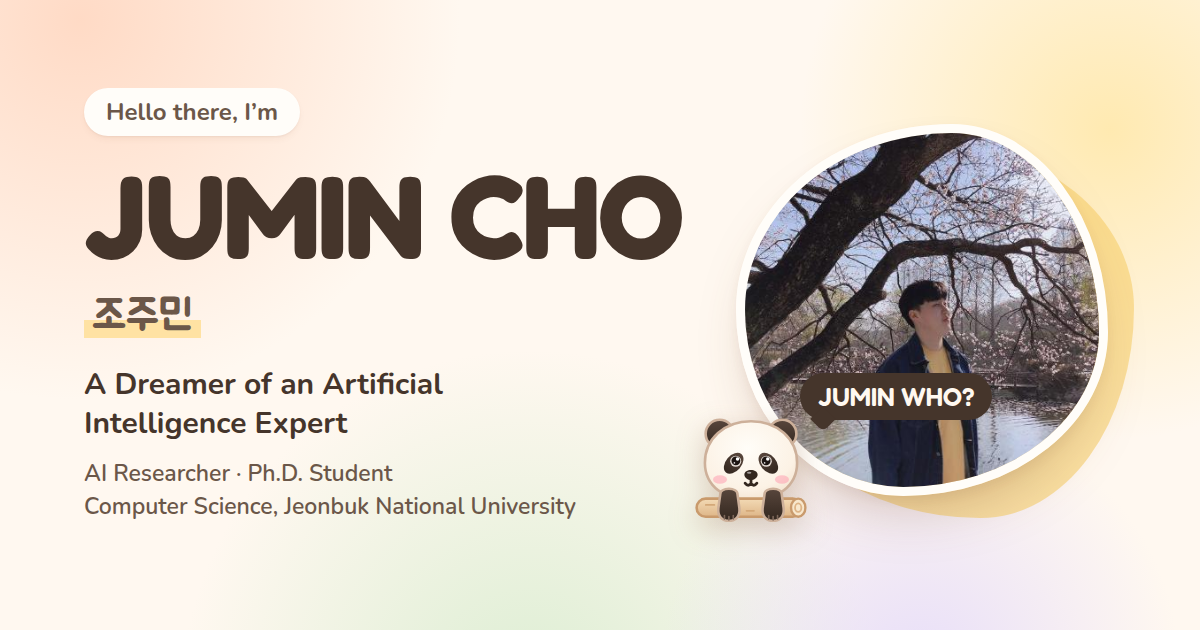
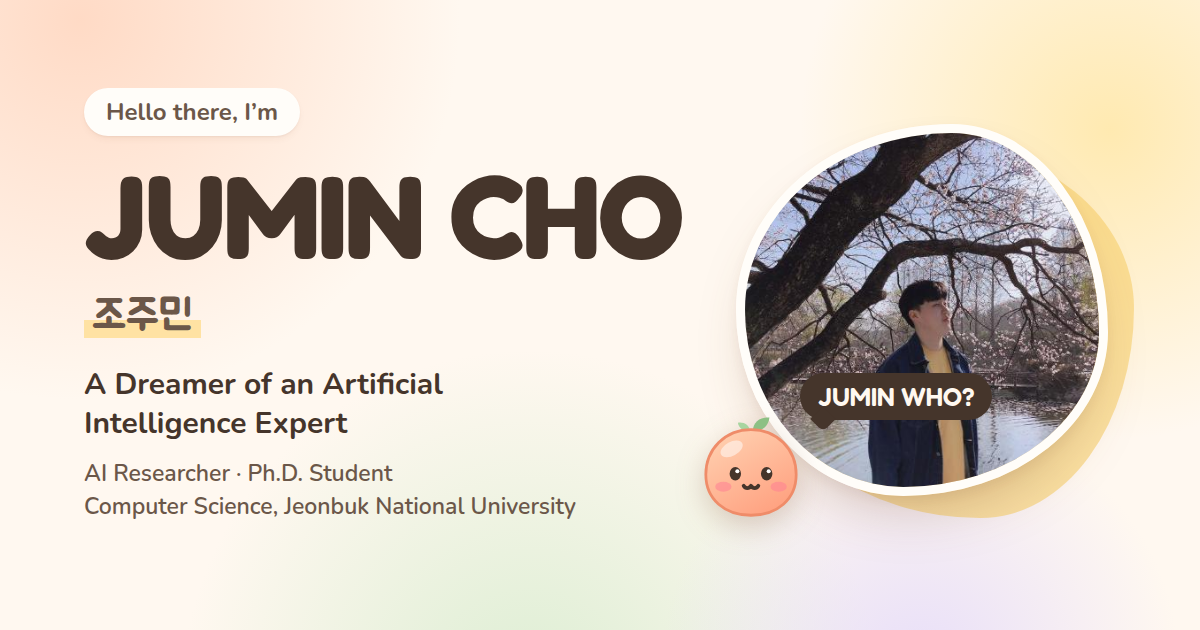
Bring back the peach mochi Mongle
Reverts 2ee805a (the panda cub mascot): favicon.svg, the icons, the link
preview, the README previews and the mascot wording in the READMEs,
DESIGN.md and CLAUDE.md are back to the peach mochi with a sprout. npm
run icons reproduces the restored icons byte for byte.

Claude-Session: https://claude.ai/code/session_0127hMf9jfyXDPBsDP4fe3Lg

Changed region(s): [[0.555, 0.6635, 0.6783, 0.8444]]

diff --git a/CLAUDE.md b/CLAUDE.md
@@ -5,7 +5,7 @@
 - 콘텐츠(사실 정보와 화면 문구)는 전부 `src/data/profile.ts`에만 있습니다. JSX에 사실 정보를 직접 쓰지 마세요.
 - 사이트와 GitHub 프로필은 다섯 언어(English 기본, 简体中文, 繁體中文, 日本語, 한국어)입니다. 문구는 `Localized`(`{ en, 'zh-CN', 'zh-HK', ja, ko }`)로 다섯 언어를 모두 채웁니다. 논문 제목·저자·학회명, 연구실, LinkedIn, GitHub 같은 고유 명사는 번역하지 않습니다. 언어는 `?lang=` → `localStorage`의 `juminwho:lang` → 영어 순서로 정하며, 이 키와 매개변수는 `src/lib/i18n.ts`와 `index.html`의 인라인 스크립트가 함께 씁니다. 저장소 README도 `README.md`(영어)와 `README.<code>.md` 네 개가 있으니, 내용을 바꾸면 다섯 개를 함께 고칩니다.
 - 디자인 규칙은 `docs/DESIGN.md`, 토큰은 `src/styles/tokens.css`를 따릅니다. 몽글몽글·코지: 크림/코코아 색, 파스텔 톤, 둥근 쿠션 패널, 느리고 작은 모션(모션 줄이기 존중).
-- 유지해야 하는 아이덴티티 요소: 이름 호버(또는 스크롤) 시 "JUMIN WHO?" 전환, 1998-07-10 기준 실시간 나이 카운터, 마스코트 몽글이(통나무에 앞발을 걸친 아기 판다, `public/favicon.svg`), Jumin 시계.
+- 유지해야 하는 아이덴티티 요소: 이름 호버(또는 스크롤) 시 "JUMIN WHO?" 전환, 1998-07-10 기준 실시간 나이 카운터, 마스코트 몽글이(`public/favicon.svg`), Jumin 시계.
 - Jumin 시계(`src/sections/JuminTime.tsx`): Local | Jumin 스위치로 방문자 시간과 Jumin 시간(KST)을 보여 주고, KST 일과표(`profile.ts`의 `juminTime.routine`)로 상태를 정합니다. 모든 상태 앞에는 반드시 "maybe…"(다른 언어에서는 `juminTime.maybe`의 같은 뜻의 말)를 붙입니다. 일과표 자체와 "until …" 같은 다음 상태 시각은 화면에 보여 주지 않고, 장소 줄·하루 리본·시차 줄도 두지 않습니다(자리를 줄이기 위해 뺌). 일과표를 바꾸면 `scripts/snapshots.mjs`의 `routineCases`도 맞춥니다.
 - 변경 후 `npm run lint`와 `npm run build`가 통과해야 하며, `npm run snapshots`로 375px/1280px, 라이트/다크, 모든 언어에서 확인합니다.
 - 마스코트·팔레트·이름·소개를 바꾸면 `npm run icons`로 아이콘과 OG 이미지를 다시 만듭니다.

diff --git a/README.ja.md b/README.ja.md
@@ -14,7 +14,7 @@
 
 <picture>
   <source media="(prefers-color-scheme: dark)" srcset="docs/preview-dark.jpg" />
-  <img src="docs/preview-light.jpg" alt="最初の画面：クリーム色の背景に名前とプロフィールカード、その横に桜の下で撮った写真とパンダのマスコット" />
+  <img src="docs/preview-light.jpg" alt="最初の画面：クリーム色の背景に名前とプロフィールカード、その横に桜の下で撮った写真と桃のマスコット" />
 </picture>
 
 ## 特徴
@@ -24,7 +24,7 @@
 - 1998-07-10 から小数点以下 8 桁までリアルタイムで数える年齢カウンター。
 - ジュミンは今、何時？ 「ローカル | ジュミン」の切り替えスイッチが付いた時計カードが、ジュミンの時間（KST）か訪問者の時間を表示し、画面には出さない平日・週末の日課表から、ジュミンが今たぶん何をしているかを教えてくれます。たぶん… 仕事中、出勤準備中、おやすみ中、または観測されるまであらゆる状態が重なり合った、量子の重ね合わせ中。
 - 5 つの言語：English（既定）、简体中文、繁體中文、日本語、한국어。ヘッダーのメニューで選ぶと選択を覚えておき、`?lang=ja` のようなリンクでその言語のページを直接開けます。
-- 丸太に前足をかけた、もふもふの子パンダのマスコット、Mongle。ファビコン、アプリアイコン、リンクプレビュー（Open Graph）画像はすべてこの絵から作られます。
+- 桃のお餅のマスコット、Mongle。ファビコン、アプリアイコン、リンクプレビュー（Open Graph）画像はすべてこの絵から作られます。
 - 地名の前の丸い国旗ステッカー：ジュミンが拠点にしている場所と、各論文を発表した場所。
 - OS の設定に従い、自分で選ぶとそれを覚えるテーマ切り替え、メールアドレスのコピーボタン、印刷用スタイル。
 - モーション軽減の設定、スクリーンリーダー、キーボード操作に配慮し、すべての文字が WCAG AA 以上のコントラストを持ちます。

diff --git a/README.zh-HK.md b/README.zh-HK.md
@@ -14,7 +14,7 @@
 
 <picture>
   <source media="(prefers-color-scheme: dark)" srcset="docs/preview-dark.jpg" />
-  <img src="docs/preview-light.jpg" alt="網站第一個畫面：奶油色背景上的名字和資料卡，旁邊是在櫻花樹下拍的相片和熊貓吉祥物" />
+  <img src="docs/preview-light.jpg" alt="網站第一個畫面：奶油色背景上的名字和資料卡，旁邊是在櫻花樹下拍的相片和桃子吉祥物" />
 </picture>
 
 ## 特色
@@ -24,7 +24,7 @@
 - 由 1998-07-10 起即時計算、準確至小數點後 8 位的年齡計數器。
 - Jumin 那邊現在幾點？附有「本地 | Jumin」開關的時鐘卡會顯示 Jumin 的時間（KST）或訪客的時間，並根據不會在頁面上顯示的平日與週末作息表，告訴你 Jumin 現在也許在做甚麼：也許……在工作、在準備上班、在睡覺，或者處於量子疊加態——在被觀測之前，所有狀態同時存在。
 - 五種語言：English（預設）、简体中文、繁體中文、日本語和한국어，可在頁首的選單中選擇。選擇會被記住，`?lang=zh-HK` 這樣的連結可以直接以該語言開啟頁面。
-- 把前爪搭在圓木上的毛茸茸熊貓寶寶吉祥物 Mongle。網站圖示（favicon）、應用程式圖示和連結預覽（Open Graph）圖片都出自這幅畫。
+- 桃子麻糬吉祥物 Mongle。網站圖示（favicon）、應用程式圖示和連結預覽（Open Graph）圖片都出自這幅畫。
 - 地名前的圓形國旗貼紙：Jumin 所在的地方，以及每篇論文發表的地方。
 - 跟隨操作系統設定、手動選擇後會記住的主題切換，複製電郵按鈕，以及打印樣式。
 - 尊重「減少動態效果」設定、屏幕閱讀器和鍵盤導航，所有文字的對比度都達到 WCAG AA 或以上。

diff --git a/README.zh-CN.md b/README.zh-CN.md
@@ -14,7 +14,7 @@
 
 <picture>
   <source media="(prefers-color-scheme: dark)" srcset="docs/preview-dark.jpg" />
-  <img src="docs/preview-light.jpg" alt="首屏：奶油色背景上的名字和信息卡片，旁边是在樱花树下拍的照片和熊猫吉祥物" />
+  <img src="docs/preview-light.jpg" alt="首屏：奶油色背景上的名字和信息卡片，旁边是在樱花树下拍的照片和桃子吉祥物" />
 </picture>
 
 ## 特点
@@ -24,7 +24,7 @@
 - 从 1998-07-10 起实时计算、精确到小数点后 8 位的年龄计数器。
 - Jumin 那边现在几点？带有“本地 | Jumin”开关的时钟卡片会显示 Jumin 的时间（KST）或访客的时间，并根据不在页面上显示的工作日与周末作息表，告诉你 Jumin 现在也许在做什么：也许……在工作、在准备上班、在睡觉，或者处于量子叠加态——在被观测之前，所有状态同时存在。
 - 五种语言：English（默认）、简体中文、繁體中文、日本語和한국어，可在页头的菜单中选择。选择会被记住，`?lang=zh-CN` 这样的链接可以直接用该语言打开页面。
-- 把前爪搭在圆木上的毛茸茸熊猫宝宝吉祥物 Mongle。网站图标（favicon）、应用图标和链接预览（Open Graph）图片都出自这幅画。
+- 桃子麻糬吉祥物 Mongle。网站图标（favicon）、应用图标和链接预览（Open Graph）图片都出自这幅画。
 - 地名前的圆形国旗贴纸：Jumin 所在的地方，以及每篇论文发表的地方。
 - 跟随操作系统设置、手动选择后会记住的主题切换，复制邮箱按钮，以及打印样式。
 - 尊重“减弱动态效果”设置、屏幕阅读器和键盘导航，所有文字的对比度都达到 WCAG AA 或更高。

diff --git a/README.ko.md b/README.ko.md
@@ -14,7 +14,7 @@
 
 <picture>
   <source media="(prefers-color-scheme: dark)" srcset="docs/preview-dark.jpg" />
-  <img src="docs/preview-light.jpg" alt="첫 화면: 크림색 배경 위의 이름과 정보 카드, 그 옆에 벚꽃 아래에서 찍은 사진과 판다 마스코트" />
+  <img src="docs/preview-light.jpg" alt="첫 화면: 크림색 배경 위의 이름과 정보 카드, 그 옆에 벚꽃 아래에서 찍은 사진과 복숭아 마스코트" />
 </picture>
 
 ## 기능
@@ -28,8 +28,8 @@
   중, 출근 준비 중, 자는 중, 또는 관측되기 전까지 모든 상태가 겹쳐 있는 양자 중첩 중.
 - 다섯 가지 언어: English(기본), 简体中文, 繁體中文, 日本語, 한국어. 헤더의 메뉴에서 고르면 그 선택을
   기억하고, `?lang=ko` 같은 링크로 원하는 언어의 페이지를 바로 열 수 있습니다.
-- 통나무에 앞발을 걸친 복슬복슬한 아기 판다 마스코트 몽글이. 파비콘, 앱 아이콘, 링크 미리보기(Open Graph)
-  이미지가 모두 이 그림에서 나옵니다.
+- 복숭아 모찌 마스코트 몽글이. 파비콘, 앱 아이콘, 링크 미리보기(Open Graph) 이미지가 모두 이 그림에서
+  나옵니다.
 - 장소 앞의 동그란 국기 스티커: 주민의 위치와 각 논문을 발표한 곳.
 - 운영체제 설정을 따르다가 직접 고르면 그 값을 기억하는 테마 토글, 이메일 복사 버튼, 인쇄용 스타일.
 - 모션 줄이기, 스크린리더, 키보드 탐색을 존중하고, 모든 글자가 WCAG AA 이상의 대비를 갖습니다.

diff --git a/docs/DESIGN.md b/docs/DESIGN.md
@@ -103,11 +103,8 @@ AI 연구자이자 박사과정생 조주민의 한 페이지 프로필입니다
   않습니다. 스크린리더는 언제나 실제 이름을 읽습니다. 터치에서는 스크롤로만 바뀝니다.
 - **실시간 나이.** 1998-07-10 00:00 KST부터 센 나이를 소수점 8자리로 보여 줍니다. 100ms마다 DOM에 직접 그리고
   React는 다시 렌더링하지 않습니다. 모션 줄이기에서는 1초마다 갱신합니다. 스크린리더에는 만 나이만 알려 줍니다.
-- **마스코트 몽글이.** 통나무에 앞발을 걸친 복슬복슬한 아기 판다입니다. 털은 크림색, 귀와 눈 둘레와 앞발은 짙은
-  코코아색(순수한 검정이 아님)이고, 볼에는 파스텔 분홍 볼터치가 있습니다. 모든 윤곽에 라테색 테두리를 둘러서
-  어두운 배경에서도 귀와 앞발이 묻히지 않습니다. 원본은 `public/favicon.svg` 한 파일이고, 파비콘, 헤더, 사진 옆,
-  시계 스위치, 푸터, 앱 아이콘, OG 이미지에 모두 같은 그림을 씁니다. 16px에서도 판다 얼굴로 읽혀야 하니 작은
-  장식을 더하지 않습니다.
+- **마스코트 몽글이.** 새싹이 달린 복숭아 모찌입니다. 원본은 `public/favicon.svg` 한 파일이고, 파비콘, 헤더, 사진
+  옆, 시계 스위치, 푸터, 앱 아이콘, OG 이미지에 모두 같은 그림을 씁니다.
 - **Jumin 시계.** 아래 "Jumin 시계" 절을 따릅니다. 모든 상태 앞에는 "maybe…"(또는 페이지 언어에서 같은 뜻의
   말)를 붙입니다.
 

diff --git a/README.md b/README.md
@@ -15,7 +15,7 @@ English · [简体中文](README.zh-CN.md) · [繁體中文](README.zh-HK.md) ·
 
 <picture>
   <source media="(prefers-color-scheme: dark)" srcset="docs/preview-dark.jpg" />
-  <img src="docs/preview-light.jpg" alt="The first screen: the name and a fact card on a cream background, next to a photo under cherry blossoms and a panda mascot" />
+  <img src="docs/preview-light.jpg" alt="The first screen: the name and a fact card on a cream background, next to a photo under cherry blossoms and a peach mascot" />
 </picture>
 
 ## Features
@@ -31,8 +31,8 @@ English · [简体中文](README.zh-CN.md) · [繁體中文](README.zh-HK.md) ·
 - Five languages: English (the default), 简体中文, 繁體中文, 日本語 and 한국어, picked from a menu
   in the header. The choice is remembered, and a link such as `?lang=ja` opens the page in that
   language.
-- Mongle the mascot, a fluffy panda cub with its paws over a log, which becomes the favicon, the
-  app icons and the link-preview (Open Graph) image.
+- Mongle the mascot, a peach mochi that becomes the favicon, the app icons and the link-preview
+  (Open Graph) image.
 - Round flag stickers in front of places: where Jumin is based, and where each paper was presented.
 - A theme toggle that follows the operating system until you pick one, a copy-email button and
   print styles.
